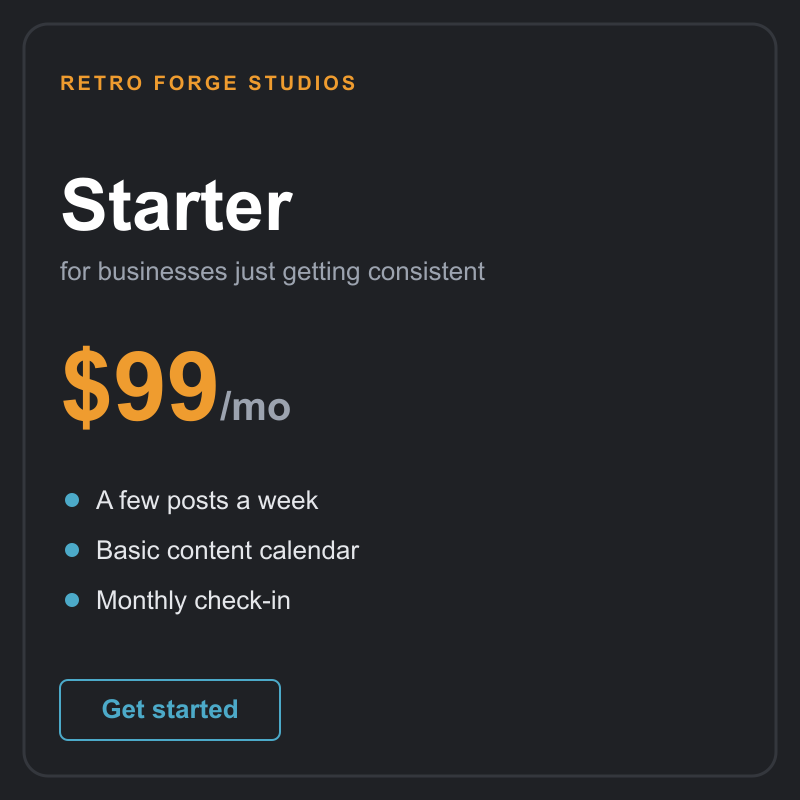
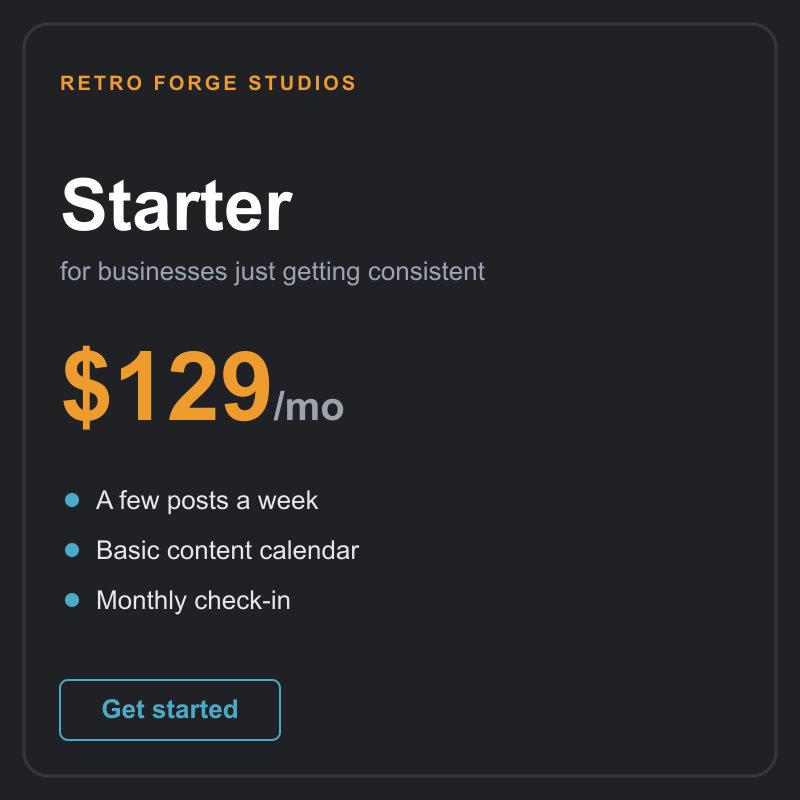
Update pricing to $129/$159/$199 across site and Stripe thumbnails
Starter $99->$129, Growth $199->$159, Pro $299->$199. Updates the
live Pricing page (PRICING_TIERS) and regenerates the three Stripe
product thumbnails to match.

Changed region(s): [[0.125, 0.4375, 0.4375, 0.5312]]

diff --git a/src/data/site.ts b/src/data/site.ts
@@ -366,7 +366,7 @@ export const PRICING_TIERS = [
   {
     name: "Starter",
     tagline: "for businesses just getting consistent",
-    price: "$99/mo",
+    price: "$129/mo",
     featured: false,
     features: ["A few posts a week", "Basic content calendar", "Monthly check-in"],
     cta: "Get started",
@@ -374,7 +374,7 @@ export const PRICING_TIERS = [
   {
     name: "Growth",
     tagline: "best value",
-    price: "$199/mo",
+    price: "$159/mo",
     featured: true,
     features: [
       "Daily social presence",
@@ -387,7 +387,7 @@ export const PRICING_TIERS = [
   {
     name: "Pro",
     tagline: "for businesses ready to scale",
-    price: "$299/mo",
+    price: "$199/mo",
     featured: false,
     features: ["Everything in Growth", "Brand strategy sessions", "Priority turnaround"],
     cta: "Get started",